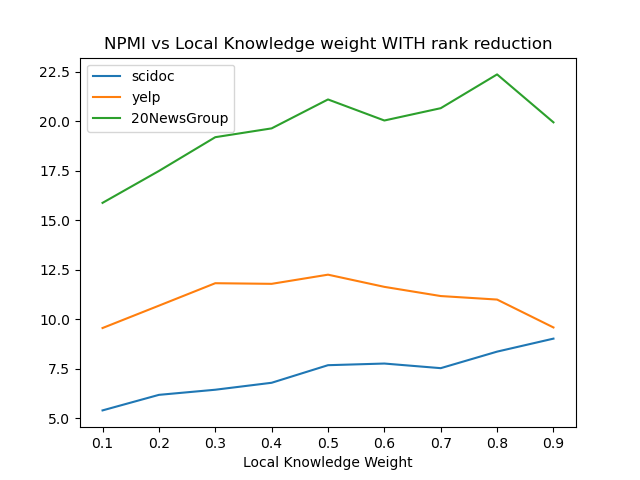
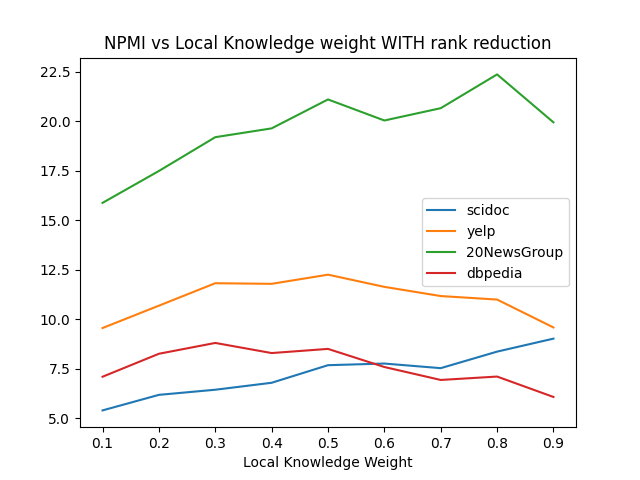
Updated results for dbpedia

diff --git a/plots.py b/plots.py
@@ -215,7 +215,7 @@ def main():
         plot.savefig(path)
 
     # Bar charts for invcab and out PMI for ensemble methods
-    results = ensemble_pmi2dataframe(DATASETS)
+    results = ensemble_pmi2dataframe(*DATASETS)
     plot = sns.catplot(results, kind='bar', x='Dataset', y='PMI', hue='Type')
     plot = plot.fig
     logging.info("Saving in vocab vs out vocab figure")
